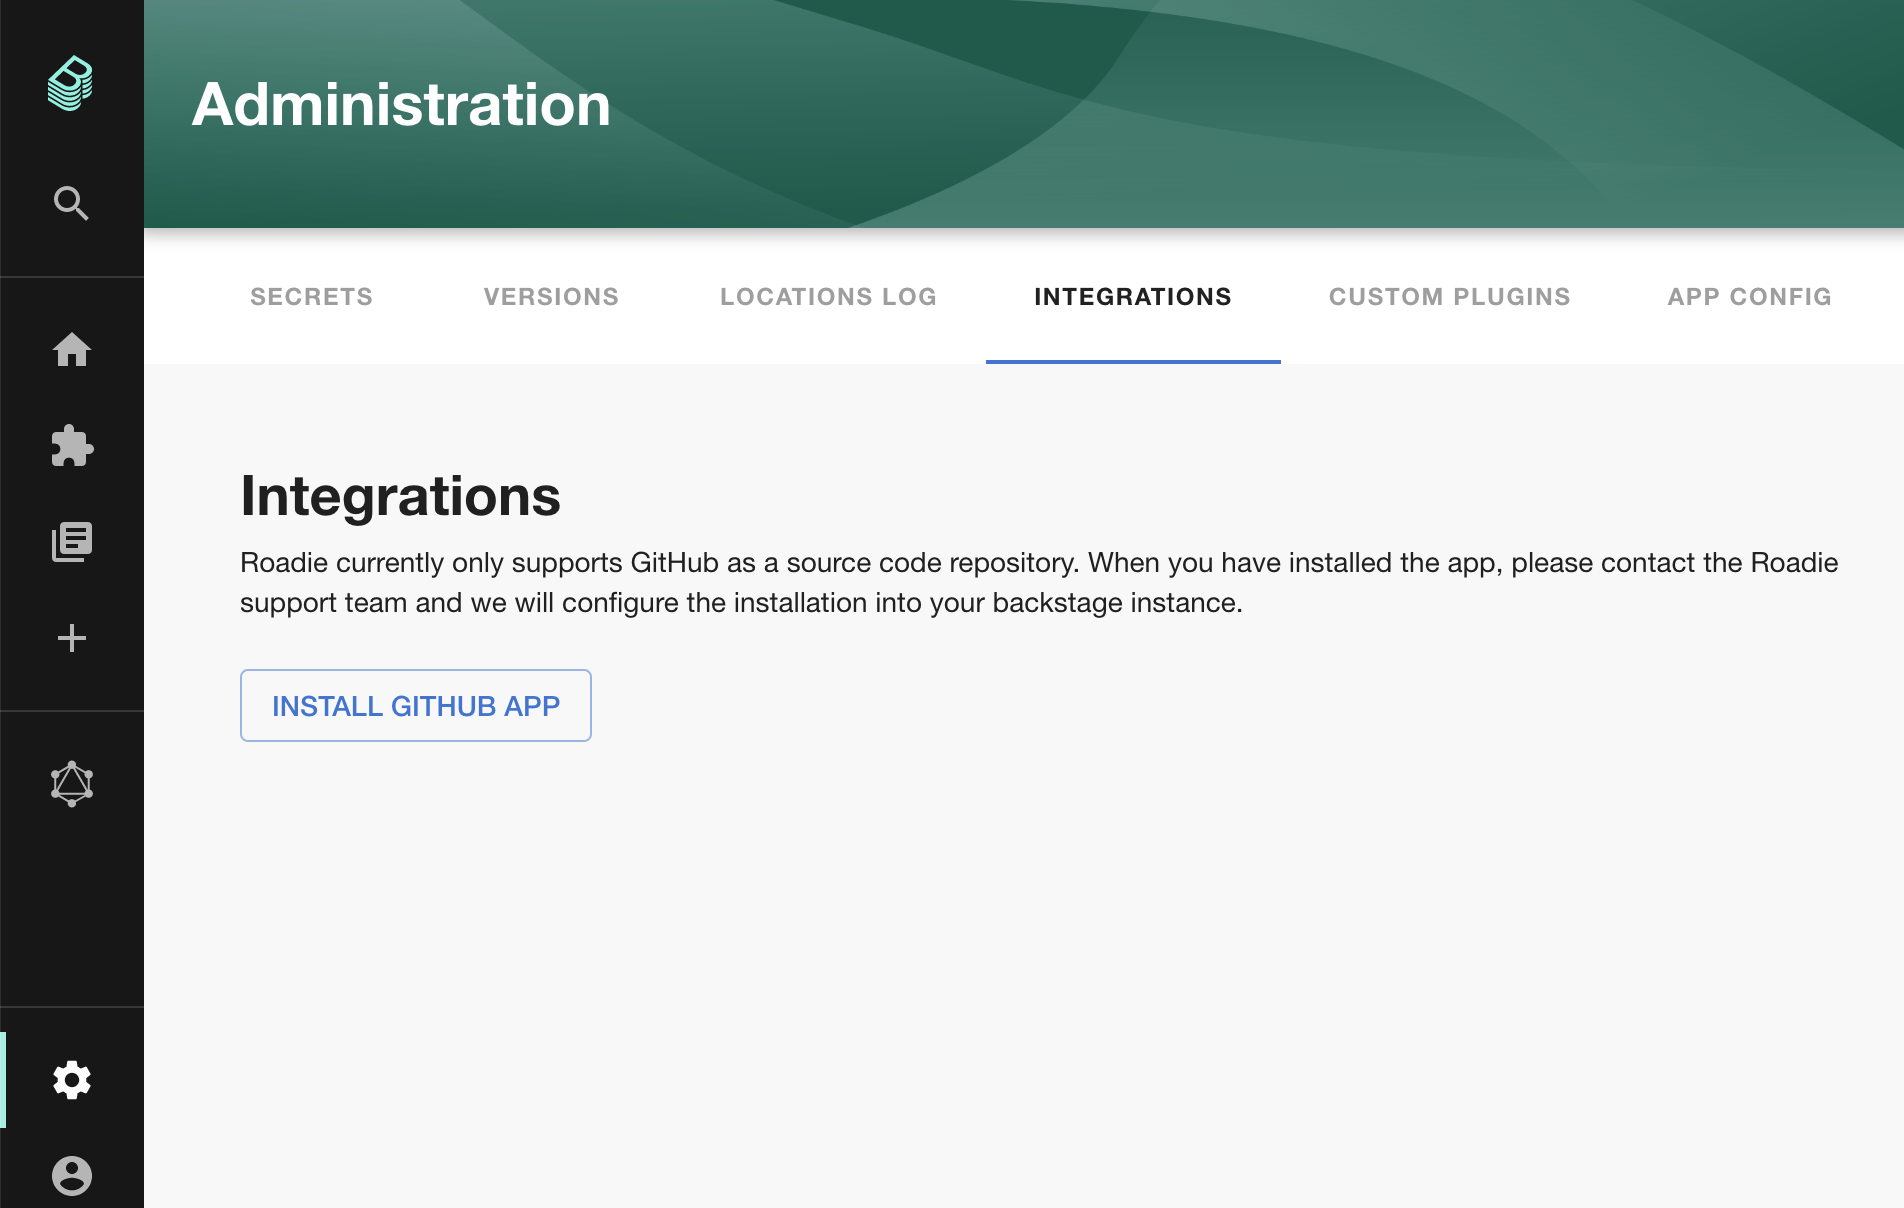
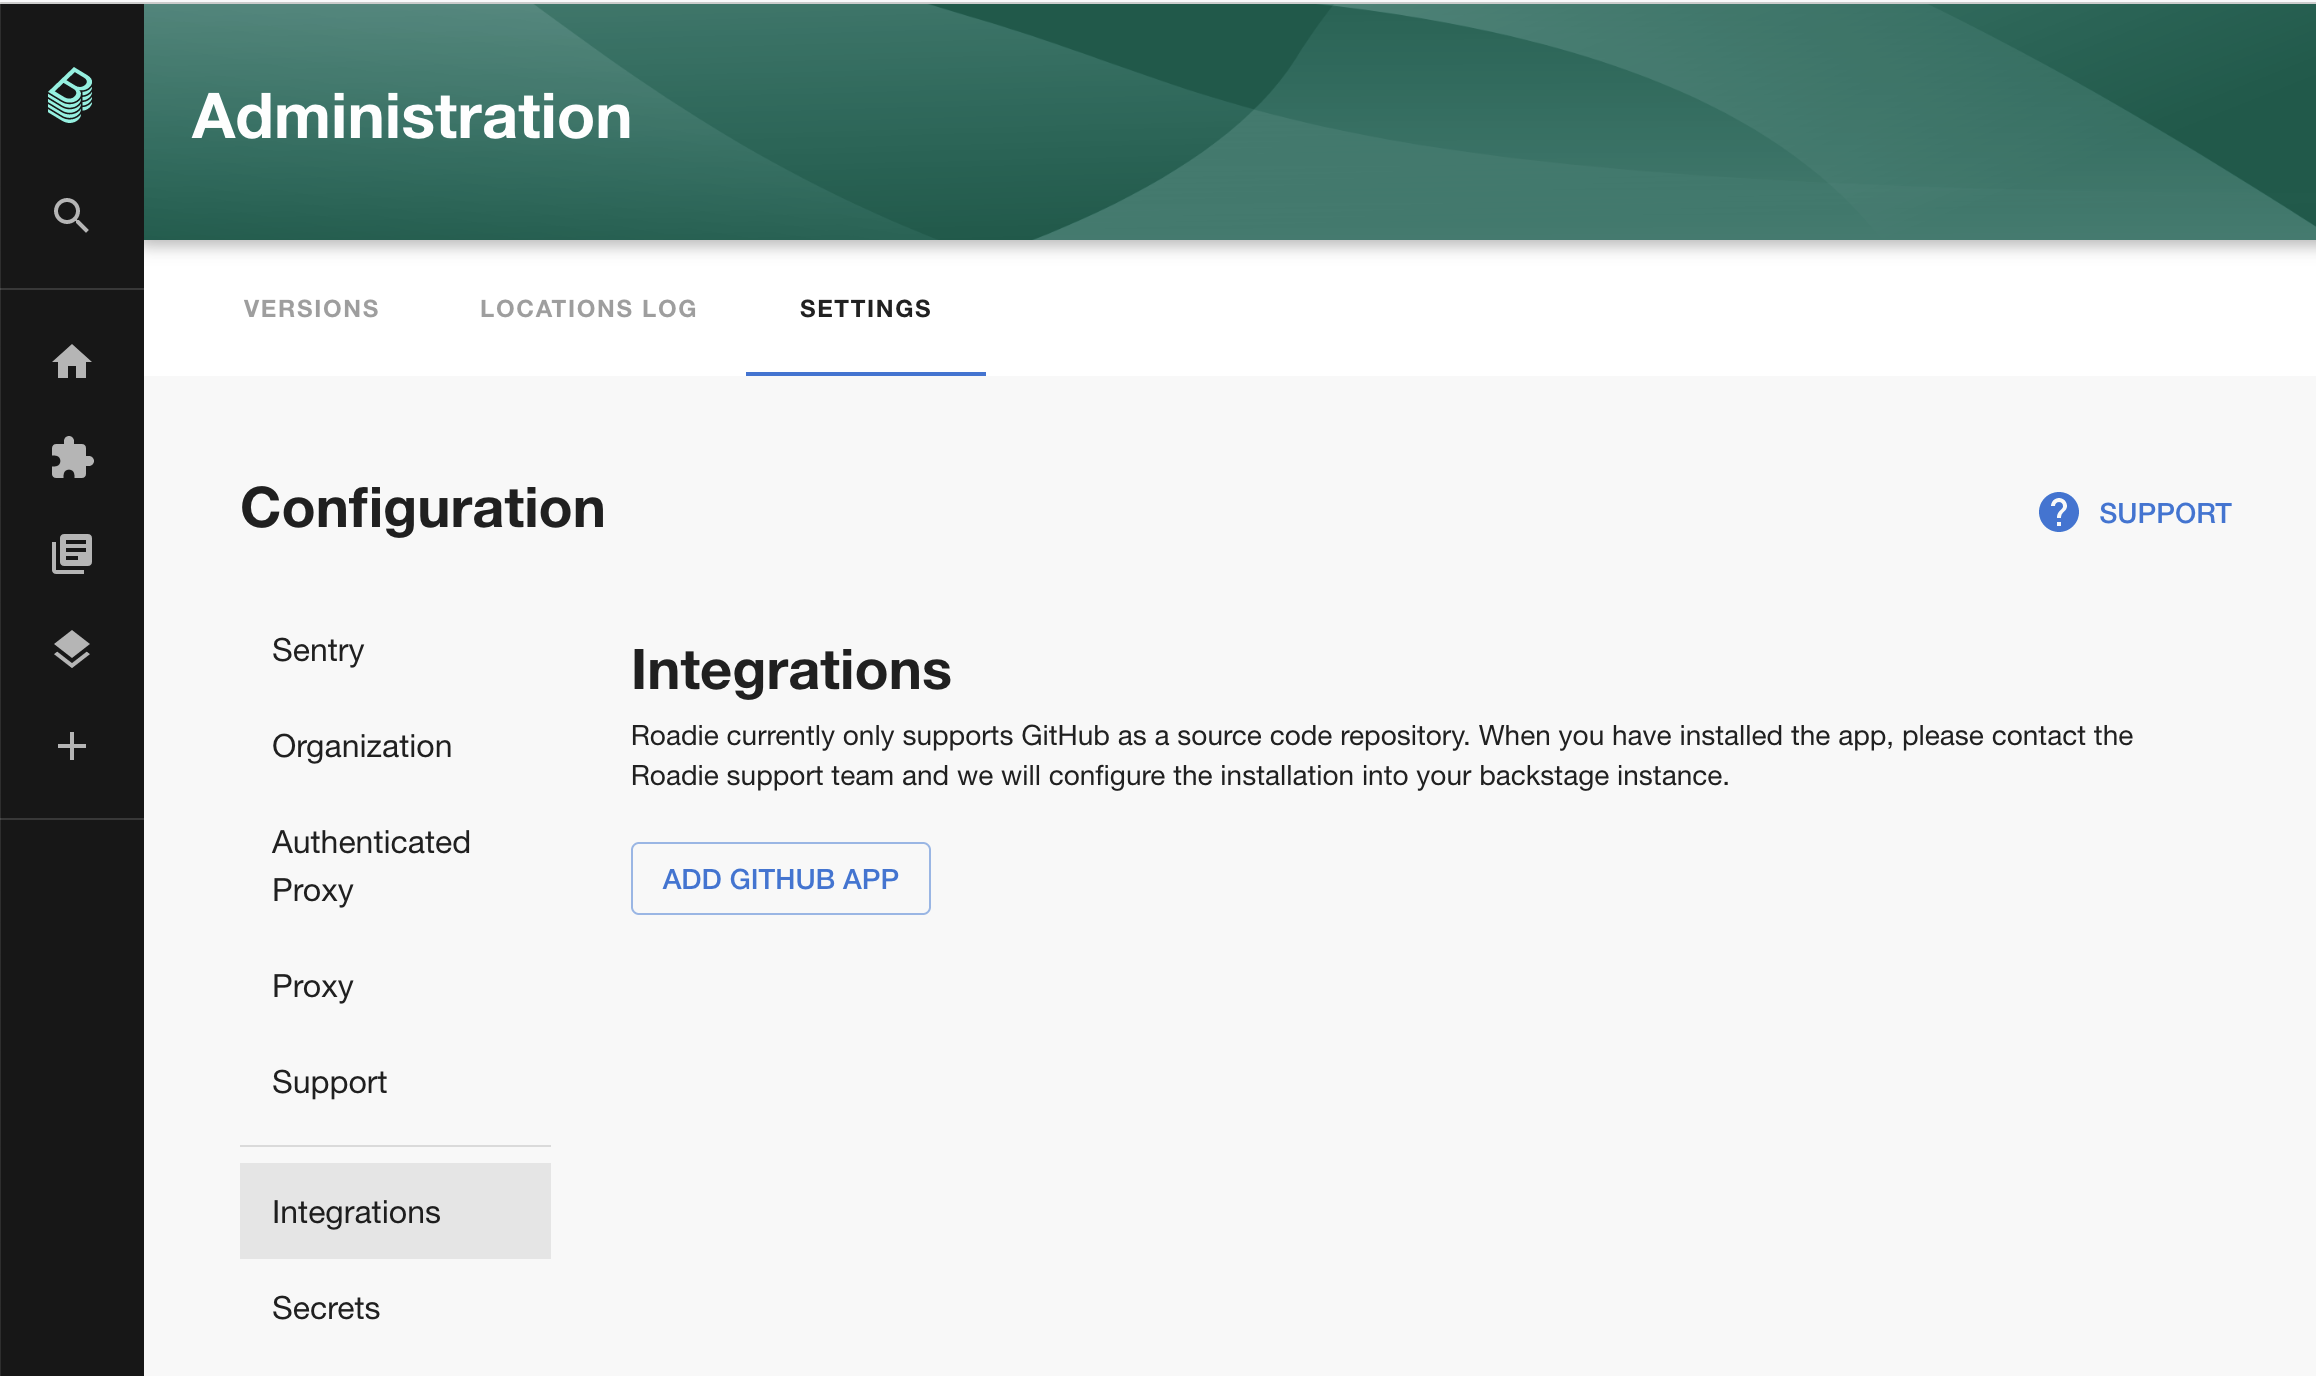
change documentation to reflect new github app

diff --git a/content/docs/getting-started/getting-started-for-admins/index.md b/content/docs/getting-started/getting-started-for-admins/index.md
@@ -39,9 +39,11 @@ Use the steps below to install the GitHub App.
 
 You can find a link to install the GitHub app in the Backstage application:
 
-1. Click the Adminisatration settings link in the bottom left
-2. Click the Integrations tab along the top of the Administration settings page
+1. Click the Administration link in the bottom left
+2. Click the Settings tab along the top of the Administration page and then the Integrations link
 3. Click on the link to install the GitHub app.
+4. Follow the steps to install the App
+5. You may need to wait up to 2 minutes for the GitHub integration to become active
 
 ![Install GitHub App](./install-github-app.png)
 
